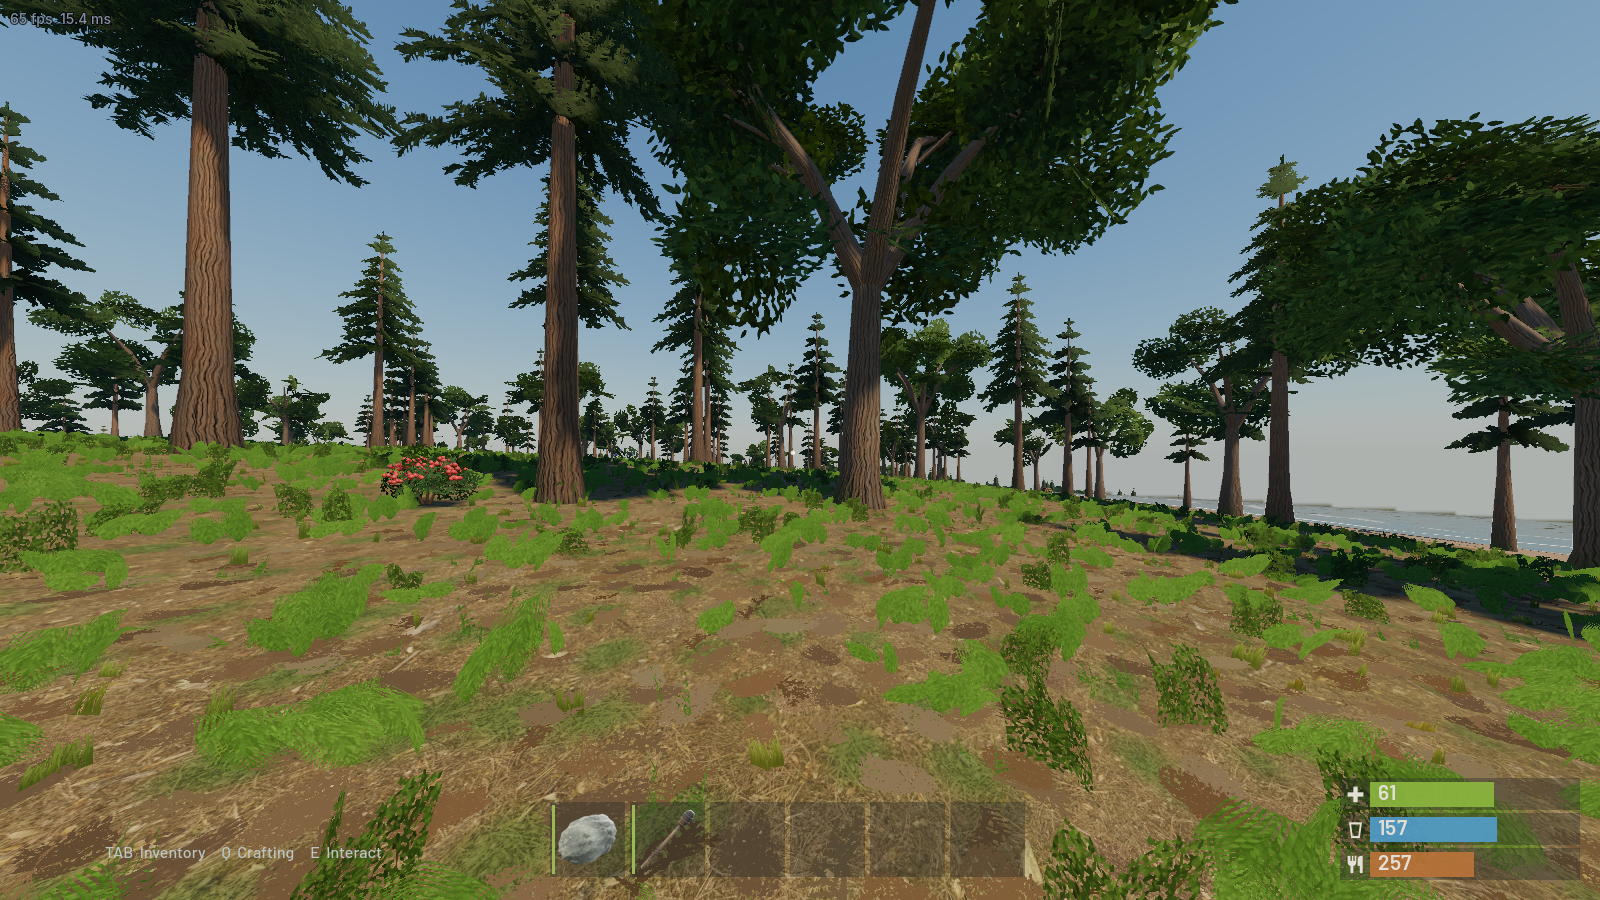
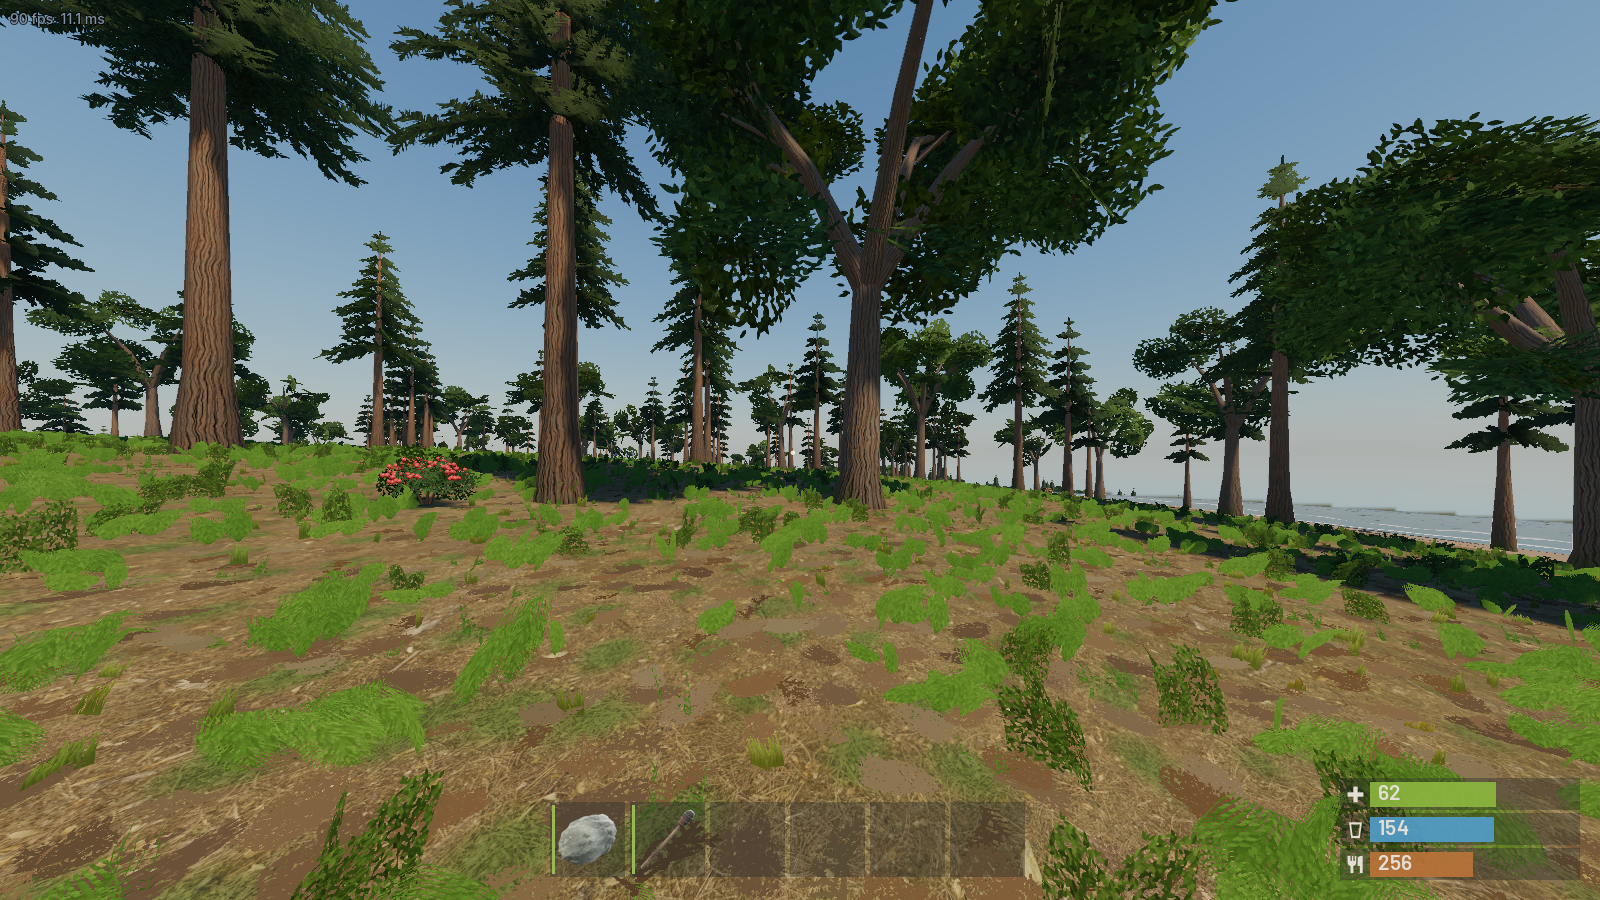
S3c: the last build's picture from the ground; transient puffs after a fast load noted (KNOWN_PROBLEMS.md)

diff --git a/docs/KNOWN_PROBLEMS.md b/docs/KNOWN_PROBLEMS.md
@@ -136,6 +136,7 @@ and fixed on `whole-world` what broke there. Still open:
 | The stand-in's temperate forest draws a closed forest floor with ferns, though its trees stand far apart (about 24 a hectare). | The drawn ground takes its tree cover from the biome table (`BiomeTable.Cover`); the stand-in's trees come from gather.json's flat densities, which the surface doesn't know. | open, until S4's ground |
 | From the leaving height the sky past the ball's edge is the sky mirrored about the air's horizon, and clouds stay hidden behind the ball. | The air keeps the real planet's size (WHOLE_WORLD.md §10.2: the minimum); clouds are drawn by the sky, behind all geometry. | S5 |
 | On the real-size look-dev view, ground textures jump on lines every 4 km of a cube face, and the grass grows on 0.6 m cells (sparser than before). | Texture coordinates keep floats exact by a per-tile anchor at multiples of 4,096 m; the grass's cells are the cube faces' at the level nearest 0.46 m (WHOLE_WORLD.md §14). | open, look-dev only |
+| A screenshot taken right after a fast load (shaders cached) showed translucent orange and white puffs and streaks in the air round the player; 50 s after the start they were gone. | Not traced: something emitted in the first seconds of play (perhaps the effects' warm-up, or a start-up effect drawn at full size); not seen in the slower first loads. Check on `main` too. | open |
 | A full test run crashed natively in Jolt (`JPH_MeshShapeSettings_Create2`, access violation) during `SurvivalNetTests.OthersSeeOnlyABag`, while three Godot games ran beside it. | Not traced; the code it ran is unchanged by S3c, and the next full run, alone, passed (239). Perhaps the Jolt crash under low memory the handoff lists. | open |
 
 ### Found in play (15 October 2026)

diff --git a/docs/WHOLE_WORLD.md b/docs/WHOLE_WORLD.md
@@ -547,7 +547,7 @@ coordinates, §8), within 256 kbit/s; prediction is exact wherever nothing pushe
 view opens the zone's own surface in the body's frame (`SurfaceView.OpenWorld`, `RenderFrame.World`), under the sky of
 the planet it stands for, with the zone's natural objects as its plants; `GroundTerrain` and the procedural sky and fixed
 sun left the game (the build sandbox still draws with `GroundTerrain`). Pictures: `docs/images/ground/s3c/`
-(`ground-morning.png`, at the landing site at 10 o'clock, 65 fps; `ground-dusk.png`, at 18:36, 84 fps;
+(`ground-morning.png`, at the landing site at 10 o'clock, 90 fps, from the last build; `ground-dusk.png`, at 18:36, 84 fps;
 `leaving-height.png`, the camera 4.8 km up, 117 fps; 1600 × 900, RTX 2070 Super, the fps counter's reading). Where the
 build differs from §10, and what was decided on the way:
 - **One way to draw the ground** (§10.1). `ISurface` got a drawing contract with defaults, so S4's generator needs only
